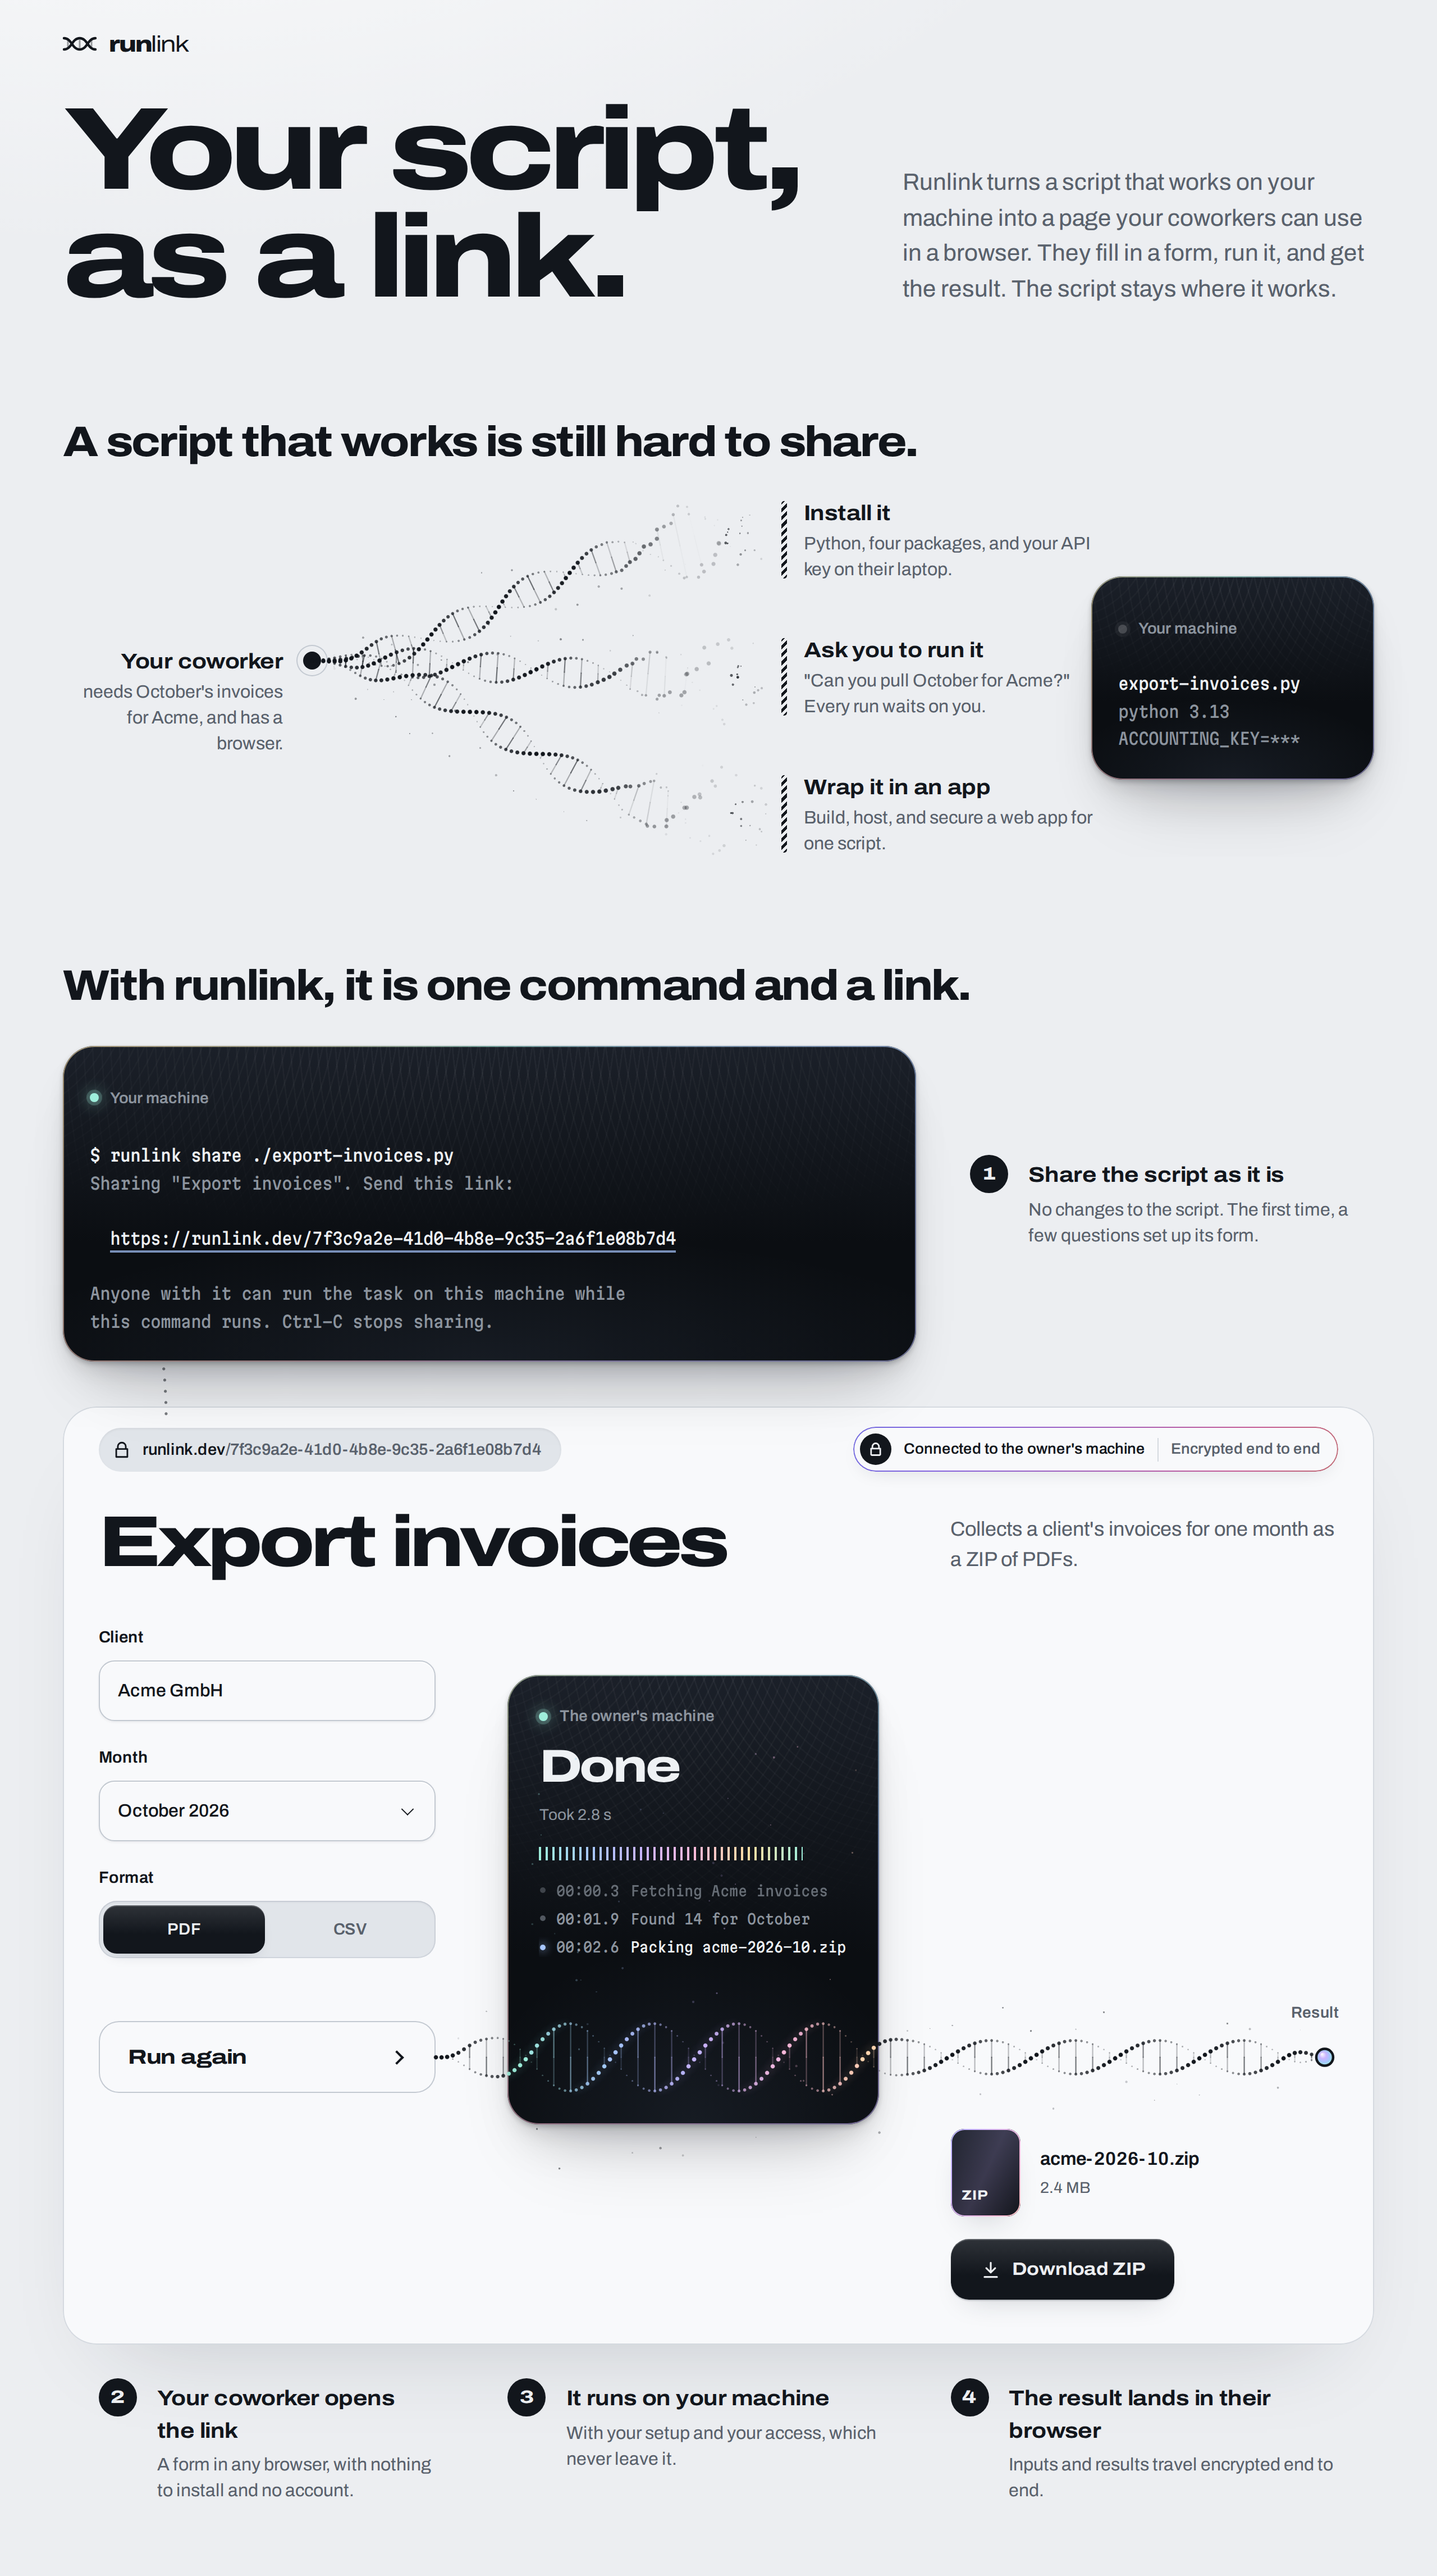
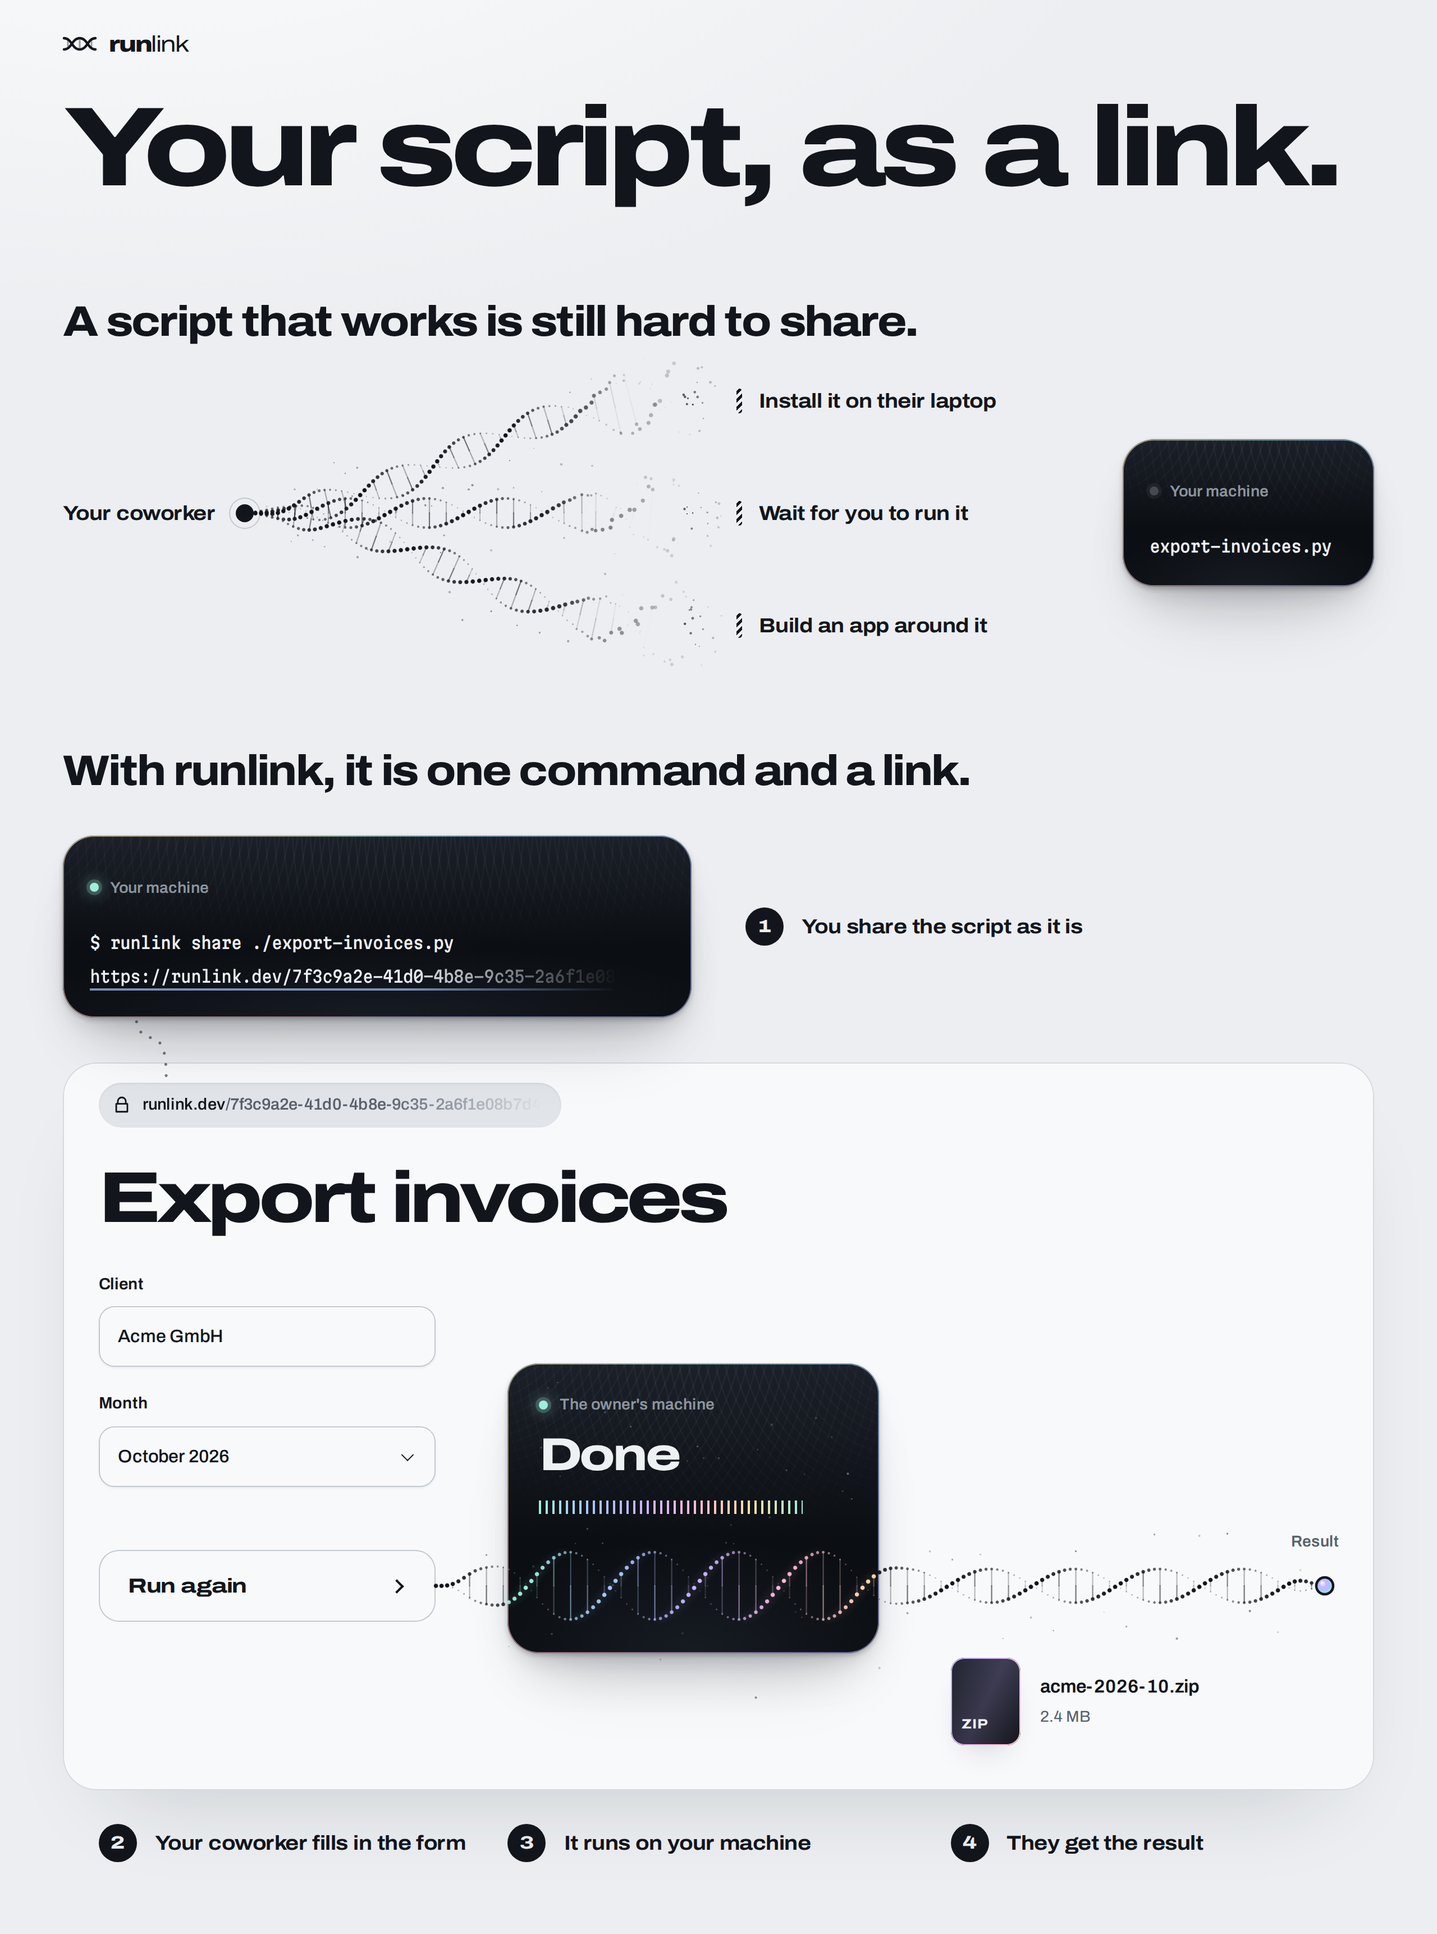
docs: cut the README image down to the problem and the fix
Drop the intro paragraph, the per-route explanations, the terminal
notes, the connection seal, the task description, the run log, and the
step explanations. Each route and step is now one self-explaining line,
and the long link fades out instead of asking to be read.

diff --git a/docs/overview/overview.html b/docs/overview/overview.html
@@ -26,56 +26,52 @@
 body { display: block; width: 1280px; min-height: 0; padding-bottom: 64px; }
 .mono { font: 450 14.5px/1.7 var(--mono); font-stretch: 87.5%; }
 
-.lead { display: grid; grid-template-columns: 1fr 420px; align-items: last baseline; gap: 48px; padding: 8px var(--gutter) 0; }
-.lead .title { margin: 0; font-size: 104px; }
-.lead .desc { font-size: 21px; }
+.lead { padding: 8px var(--gutter) 0; }
+.lead .title { max-width: none; margin: 0; font-size: 100px; white-space: nowrap; }
 h2.say { margin: 0 var(--gutter); font-size: 38px; font-weight: 780; font-stretch: 112.5%; letter-spacing: -.035em; line-height: 1.1; }
+.coworker, .snag, .step { margin: 0; font-size: 18px; font-weight: 700; font-stretch: 112.5%; letter-spacing: -.015em; line-height: 26px; }
 
 /* Today: three routes leave the coworker for the script and fray before they reach it. */
-.today { margin-top: 96px; }
-.routes { position: relative; height: 330px; margin: 28px var(--gutter) 0; }
-.coworker { position: absolute; top: 132px; left: 0; display: grid; grid-template-columns: 1fr auto; column-gap: 18px; width: 230px; text-align: right; }
-.coworker::after { content: ""; grid-area: 1 / 2 / 3 / 3; width: 16px; height: 16px; margin-top: 5px; border-radius: 50%; background: var(--ink);
-  box-shadow: 0 0 0 5px var(--paper), 0 0 0 6px var(--edge); }
-.coworker strong, .snag strong, .step strong { font-size: 19px; font-weight: 700; font-stretch: 112.5%; letter-spacing: -.015em; }
-.coworker span, .snag span, .step span { font-size: 16px; line-height: 1.45; color: var(--muted); }
-.coworker span { grid-column: 1; }
-.snag { position: absolute; left: 640px; display: grid; width: 300px; padding-left: 20px; }
-.snag::before { content: ""; position: absolute; top: 3px; bottom: 3px; left: 0; width: 5px; border-radius: 3px;
+.today { margin-top: 88px; }
+.routes { position: relative; height: 226px; margin: 36px var(--gutter) 0; }
+.coworker { position: absolute; top: 100px; left: 0; display: flex; align-items: center; gap: 18px; }
+.coworker::after { content: ""; width: 16px; height: 16px; border-radius: 50%; background: var(--ink); box-shadow: 0 0 0 5px var(--paper), 0 0 0 6px var(--edge); }
+.snag { position: absolute; left: 600px; padding-left: 20px; }
+.snag::before { content: ""; position: absolute; top: 2px; bottom: 2px; left: 0; width: 5px; border-radius: 3px;
   background: repeating-linear-gradient(-45deg, var(--ink) 0 2.5px, transparent 2.5px 5px); }
 .snag:nth-child(2) { top: 0; }
-.snag:nth-child(3) { top: 122px; }
-.snag:nth-child(4) { top: 244px; }
-.box { position: absolute; top: 70px; right: 0; width: 252px; }
+.snag:nth-child(3) { top: 100px; }
+.snag:nth-child(4) { top: 200px; }
+.box { position: absolute; top: 50%; right: 0; width: 224px; translate: 0 -50%; }
 .box .readings, .term .readings { padding: 22px 24px 24px; }
-.box .mono { margin-top: 12px; color: var(--core-muted); }
-.box .mono b, .term b { font-weight: 500; color: var(--core-ink); }
+.box .mono, .term .cmd { margin-top: 12px; font-weight: 500; color: var(--core-ink); }
 
 /* With runlink: one command on the owner's machine, one link, the task in a browser. */
-.with { margin-top: 84px; }
-.share { display: grid; grid-template-columns: 760px 1fr; align-items: center; gap: 48px; margin: 32px var(--gutter) 0; }
+.with { margin-top: 96px; }
+.share { display: grid; grid-template-columns: 560px 1fr; align-items: center; gap: 48px; margin: 36px var(--gutter) 0; }
 /* Sharing: the lamp burns steady while the command runs. */
 .term .who::before { background: var(--n1); box-shadow: 0 0 0 3px color-mix(in oklab, var(--n1) 22%, transparent), 0 0 14px var(--n1); }
-.term .mono { margin-top: 14px; color: var(--core-muted); white-space: pre; }
-.term .url { color: var(--core-ink); text-decoration: underline 1.5px; text-underline-offset: 5px;
-  text-decoration-color: color-mix(in oklab, var(--n2) 70%, transparent); }
-.step { position: relative; display: grid; align-content: start; padding-left: 52px; }
-.step::before { content: attr(data-n); position: absolute; top: -4px; left: 0; display: grid; place-items: center; width: 34px; height: 34px;
+/* The link is long; it fades out instead of asking to be read. */
+.term .url { margin-top: 6px; overflow: hidden; white-space: nowrap; color: var(--core-ink); text-decoration: underline 1.5px;
+  text-underline-offset: 5px; text-decoration-color: color-mix(in oklab, var(--n2) 70%, transparent);
+  mask-image: linear-gradient(to right, #000 55%, transparent 92%); }
+.step { display: flex; align-items: center; gap: 16px; }
+.step::before { content: attr(data-n); display: grid; place-items: center; flex: none; width: 34px; height: 34px;
   border-radius: 50%; background: var(--ink); color: var(--paper); font-size: 16px; font-weight: 800; font-stretch: 125%; }
 .browser { position: relative; margin: 40px var(--gutter) 0; padding: 0 32px 40px; border-radius: 30px; background: var(--lift);
   box-shadow: inset 0 0 0 1px var(--rule), inset 0 1px 0 var(--hi), 0 40px 80px -48px var(--shadow); }
-.chrome { display: flex; align-items: center; justify-content: space-between; gap: 16px; padding: 18px 0 30px; }
-.address { display: inline-flex; align-items: center; gap: 10px; padding: 9px 18px 9px 12px; border-radius: 99px; background: var(--well);
+.chrome { padding: 18px 0 30px; }
+.address { display: inline-flex; align-items: center; gap: 10px; max-width: 420px; padding: 9px 18px 9px 12px; border-radius: 99px; background: var(--well);
   box-shadow: inset 0 1px 2px var(--tint); font-size: 14.5px; font-weight: 560; color: var(--muted); }
-.address .icon { width: 17px; height: 17px; color: var(--ink); }
+.address .icon { flex: none; width: 17px; height: 17px; color: var(--ink); }
+.address > span { overflow: hidden; white-space: nowrap; mask-image: linear-gradient(to right, #000 60%, transparent); }
 .address b { font-weight: 560; color: var(--ink); }
 .browser .bench { padding-bottom: 0; }
-.browser .title { margin-bottom: 44px; font-size: 64px; }
-.browser .desc { font-size: 18px; }
-.steps { display: grid; grid-template-columns: minmax(0, 1fr) var(--link) minmax(300px, 1.1fr) var(--link) minmax(0, 1.15fr); margin: 34px calc(var(--gutter) + 32px) 0; }
+.browser .title { margin-bottom: 36px; font-size: 64px; }
+.steps { display: grid; grid-template-columns: minmax(0, 1fr) var(--link) minmax(300px, 1.1fr) var(--link) minmax(0, 1.15fr); margin: 30px calc(var(--gutter) + 32px) 0; }
+.steps .step:nth-child(1) { grid-column: 1 / 3; }
 .steps .step:nth-child(2) { grid-column: 3; }
 .steps .step:nth-child(3) { grid-column: 5; }
-.step strong + span { margin-top: 4px; }
 </style>
 </head>
 <body>
@@ -83,19 +79,18 @@ h2.say { margin: 0 var(--gutter); font-size: 38px; font-weight: 780; font-stretc
 
 <div class="lead">
 <h1 class="title">Your script, as a link.</h1>
-<p class="desc">Runlink turns a script that works on your machine into a page your coworkers can use in a browser. They fill in a form, run it, and get the result. The script stays where it works.</p>
 </div>
 
 <section class="today">
 <h2 class="say">A script that works is still hard to share.</h2>
 <div class="routes">
-<p class="coworker"><strong>Your coworker</strong><span>needs October's invoices for Acme, and has a browser.</span></p>
-<p class="snag"><strong>Install it</strong><span>Python, four packages, and your API key on their laptop.</span></p>
-<p class="snag"><strong>Ask you to run it</strong><span>"Can you pull October for Acme?" Every run waits on you.</span></p>
-<p class="snag"><strong>Wrap it in an app</strong><span>Build, host, and secure a web app for one script.</span></p>
+<p class="coworker">Your coworker</p>
+<p class="snag">Install it on their laptop</p>
+<p class="snag">Wait for you to run it</p>
+<p class="snag">Build an app around it</p>
 <section class="machine box"><div class="etch"></div><div class="readings">
 <h3 class="who">Your machine</h3>
-<p class="mono"><b>export-invoices.py</b><br>python 3.13<br>ACCOUNTING_KEY=***</p>
+<p class="mono">export-invoices.py</p>
 </div></section>
 </div>
 </section>
@@ -105,32 +100,22 @@ h2.say { margin: 0 var(--gutter); font-size: 38px; font-weight: 780; font-stretc
 <div class="share">
 <section class="machine term"><div class="etch"></div><div class="readings">
 <h3 class="who">Your machine</h3>
-<p class="mono"><b>$ runlink share ./export-invoices.py</b>
-Sharing "Export invoices". Send this link:
-
-  <span class="url" id="link">https://runlink.dev/7f3c9a2e-41d0-4b8e-9c35-2a6f1e08b7d4</span>
-
-Anyone with it can run the task on this machine while
-this command runs. Ctrl-C stops sharing.</p>
+<p class="mono cmd">$ runlink share ./export-invoices.py</p>
+<p class="mono url" id="link">https://runlink.dev/7f3c9a2e-41d0-4b8e-9c35-2a6f1e08b7d4</p>
 </div></section>
-<p class="step" data-n="1"><strong>Share the script as it is</strong><span>No changes to the script. The first time, a few questions set up its form.</span></p>
+<p class="step" data-n="1">You share the script as it is</p>
 </div>
 
 <div class="browser">
 <div class="chrome">
 <span class="address" id="address"><svg class="icon" viewBox="0 0 24 24" aria-hidden="true"><path d="M7 11V8a5 5 0 0 1 10 0v3M5 11h14v10H5z"/></svg><span><b>runlink.dev</b>/7f3c9a2e-41d0-4b8e-9c35-2a6f1e08b7d4</span></span>
-<p class="seal"><svg class="icon" viewBox="0 0 24 24" aria-hidden="true"><path d="M7 11V8a5 5 0 0 1 10 0v3M5 11h14v10H5z"/></svg><span>Connected<span class="to"> to the owner's machine</span></span><span class="e2e">Encrypted end to end</span></p>
 </div>
 <div class="bench" data-stage="done">
 <h1 class="title">Export invoices</h1>
-<p class="desc">Collects a client's invoices for one month as a ZIP of PDFs.</p>
 <form class="input">
 <div class="fields-wrap"><fieldset class="fields">
 <div class="field"><label>Client</label><div class="slot"><input class="control" value="Acme GmbH"></div></div>
 <div class="field"><label>Month</label><div class="slot"><select class="control"><option>October 2026</option></select></div></div>
-<fieldset class="field"><legend>Format</legend><div class="slot"><div class="segments">
-<label><input type="radio" name="f" checked><span>PDF</span></label><label><input type="radio" name="f"><span>CSV</span></label>
-</div></div></fieldset>
 </fieldset></div>
 <div class="run-row"><button class="primary run again" type="button">Run again</button></div>
 </form>
@@ -138,29 +123,22 @@ this command runs. Ctrl-C stops sharing.</p>
 <section class="machine"><div class="etch"></div><div class="readings">
 <h2 class="who">The owner's machine</h2>
 <p class="readout">Done</p>
-<p class="caption">Took 2.8 s</p>
 <div class="meter"><span class="ticks"></span><span class="pct"></span></div>
-<ol class="log">
-<li data-t="00:00.3">Fetching Acme invoices</li>
-<li data-t="00:01.9">Found 14 for October</li>
-<li data-t="00:02.6">Packing acme-2026-10.zip</li>
-</ol>
 </div><div class="signal"></div></section>
 <div class="wire w2"></div>
 <section class="output">
 <h2 class="tag">Result</h2>
 <div class="result">
 <div class="doc"><span class="ext">ZIP</span><div><p class="fname">acme-2026-10.zip</p><p class="fmeta">2.4 MB</p></div></div>
-<a class="primary download"><svg class="icon" viewBox="0 0 24 24" aria-hidden="true"><path d="M12 4v11M7 10l5 5 5-5M5 20h14"/></svg>Download ZIP</a>
 </div>
 </section>
 </div>
 </div>
 
 <div class="steps">
-<p class="step" data-n="2"><strong>Your coworker opens the link</strong><span>A form in any browser, with nothing to install and no account.</span></p>
-<p class="step" data-n="3"><strong>It runs on your machine</strong><span>With your setup and your access, which never leave it.</span></p>
-<p class="step" data-n="4"><strong>The result lands in their browser</strong><span>Inputs and results travel encrypted end to end.</span></p>
+<p class="step" data-n="2">Your coworker fills in the form</p>
+<p class="step" data-n="3">It runs on your machine</p>
+<p class="step" data-n="4">They get the result</p>
 </div>
 </section>
 
@@ -284,7 +262,7 @@ document.fonts.ready.then(() => {
 
   // Today: three routes fan out from the coworker and fray short of the script.
   const start = box(document.querySelector('.coworker'));
-  const from = [start.r - 8, start.t + 13];
+  const from = [start.r - 8, (start.t + start.b) / 2];
   document.querySelectorAll('.snag').forEach((snag, n) => {
     const s = box(snag), to = [s.l - 48, (s.t + s.b) / 2], dx = to[0] - from[0];
     const path = walk(from, [from[0] + dx * .4, from[1]], [to[0] - dx * .45, to[1]], to);

diff --git a/README.md b/README.md
@@ -6,7 +6,7 @@ owner's machine. See [VISION](VISION.md), [RATIONALE](RATIONALE.md), and the
 
 <picture>
   <source media="(prefers-color-scheme: dark)" srcset="docs/overview/dark.png">
-  <img src="docs/overview/light.png" alt="A script that works is still hard to share: a coworker can install it, ask its owner to run it, or wait for an app around it. With runlink, the owner runs runlink share on the script and sends the printed link; the coworker fills in a form in the browser, the script runs on the owner's machine, and the result lands in the browser, encrypted end to end.">
+  <img src="docs/overview/light.png" alt="A script that works is still hard to share: your coworker would have to install it on their laptop, wait for you to run it, or have an app built around it. With runlink, you run runlink share on the script and send the link; your coworker fills in the form in a browser, the script runs on your machine, and they get the result.">
 </picture>
 
 This repository contains a locally verified development and shipping foundation
